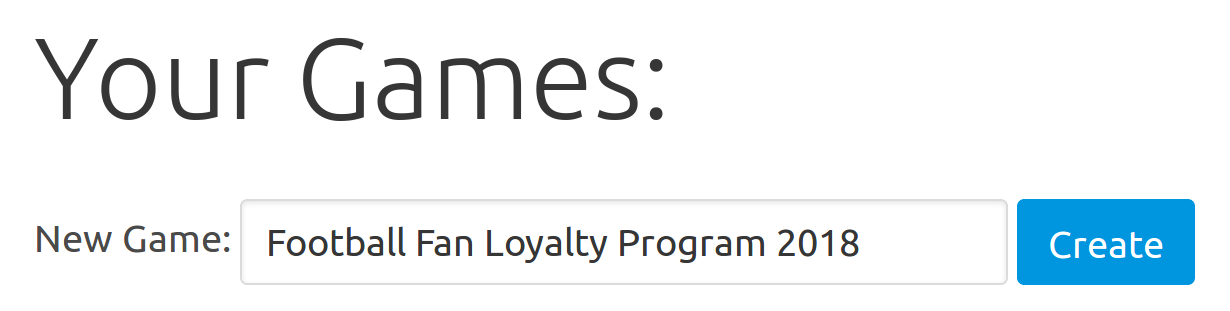
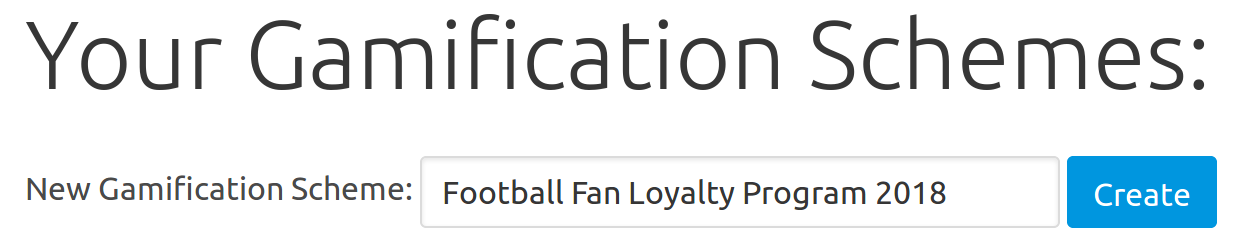
Updated Documentation according to https://github.com/dvergeylen/place2be-arch/commit/bf2d06a1311cd666a82712da9586b91da51dbe3e

diff --git a/getting_started/gui_overview.md b/getting_started/gui_overview.md
@@ -14,12 +14,12 @@ nice_title: P2B - Quick Start Gamification Scheme
     <li>Defining one Condition Set with one Condition in it</li>
   </ul>
   <h1 class="title is-3">Create new Gamification Scheme</h1>
-  <p>Creating a new Gamification Scheme couldn't be easier. Simply encode a name (you can always change it later) in the 'New Game' text field on your dashboard and hit the 'Create' button! For instance, let's create a new Gamification Scheme called "Football Fan Loyalty Program":</p>
+  <p>Creating a new Gamification Scheme couldn't be easier. Simply encode a name (you can always change it later) in the 'New Gamification Scheme' text field on your dashboard and hit the 'Create' button! For instance, let's create a new Scheme called "Football Fan Loyalty Program":</p>
   <figure class="image has-text-centered figure-printscreen">
     <img class="is-hcentered" src="{{ site.baseurl }}/assets/images/gui_overview/create_new_game.png" alt=""/>
     <figcaption class="is-hcentered">Fig1. - Create a new Gamification scheme by entering a name and hitting Create button.</figcaption>
   </figure>
-  <p>Your freshly created Game should be displayed, including two tabs to populate the scheme and to get the credentials for API communication.</p>
+  <p>Your freshly created Gamification Scheme should be displayed, including two tabs to populate the scheme and to get the credentials for API communication.</p>
   
   <figure class="image has-text-centered figure-printscreen">
     <img class="is-hcentered" src="{{ site.baseurl }}/assets/images/gui_overview/new_game_created.png" alt=""/>
